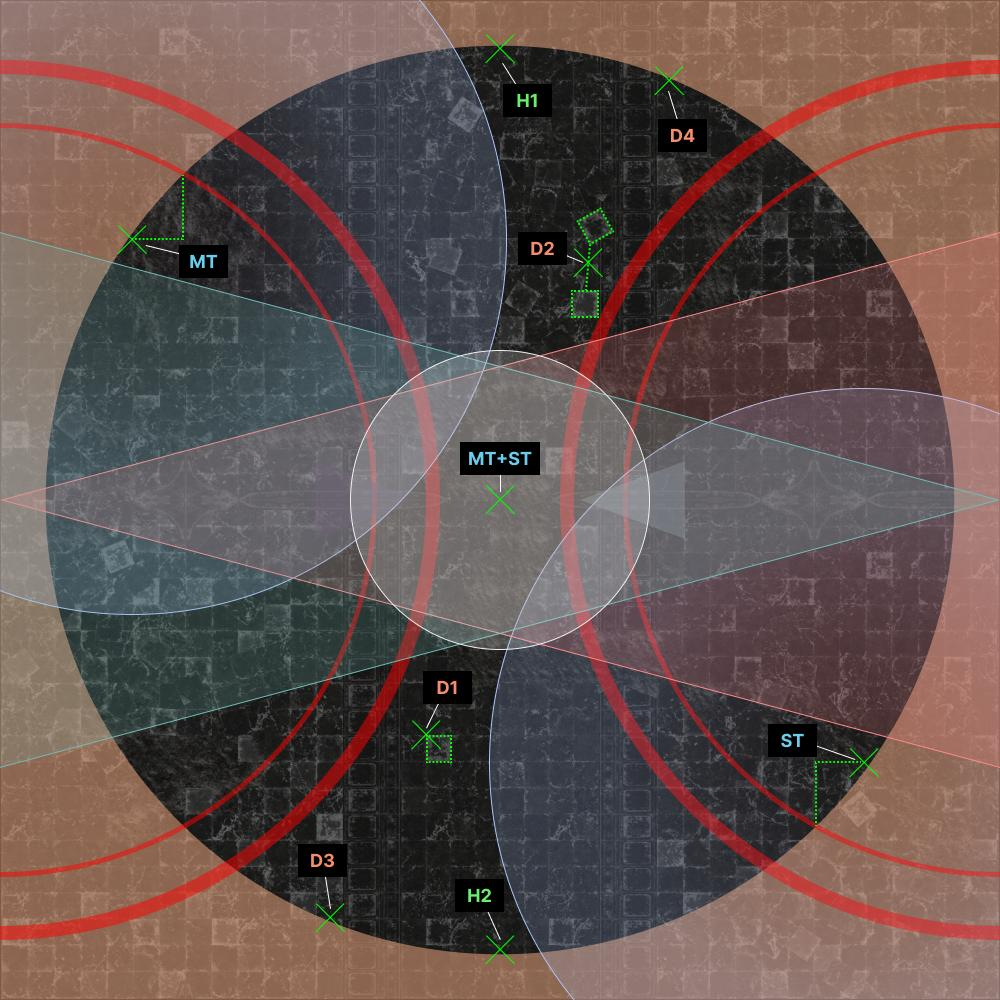
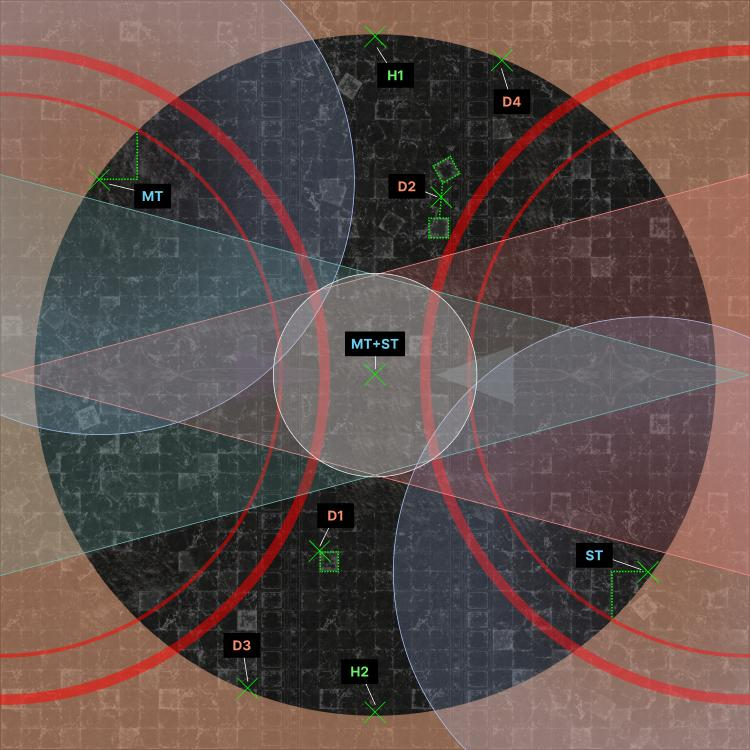
Make fixed WB2 links clickable, fix AoE sizes

diff --git a/_elemental/dsr/06_double_dragons.en.md b/_elemental/dsr/06_double_dragons.en.md
@@ -1182,7 +1182,7 @@ transition to the final phase *(Dragonking Thordan will not be targetable*
       <p>However, player positioning is precise, and when things go wrong, it's
       often difficult to diagnose what went wrong.</p>
       <p style="text-align:center">
-        <img src="{{site.baseurl}}/images/ultimates/dsr/06/fixed_wyrmsbreath2.jpg">
+        <img src="{{site.baseurl}}/images/ultimates/dsr_mana/06/fixed_wyrmsbreath2.jpg">
       </p>
       <ul>
         <li><b>MT:</b> NW if you get the single-target tankbuster (by Nidhogg).</li>

diff --git a/_mana/dsr/06_double_dragons.en.md b/_mana/dsr/06_double_dragons.en.md
@@ -763,7 +763,9 @@ or the shared tankbuster.
 The positions are *precise*- pay attention to the markings on the ground to
 help determine where to stand.
 
-![]({{site.baseurl}}/images/ultimates/dsr_mana/06/fixed_wyrmsbreath2.jpg)
+<a href="{{site.baseurl}}/images/ultimates/dsr_mana/06/fixed_wyrmsbreath2.jpg">
+  <img src="{{site.baseurl}}/images/ultimates/dsr_mana/06/fixed_wyrmsbreath2.jpg">
+</a>
 
 Also note that if D1 is tethered to Nidhogg, or D2 is tethered to Hraesvelgr,
 the tether will indicate that it is *not* stretched out.

diff --git a/_mana/dsr/differences.en.md b/_mana/dsr/differences.en.md
@@ -213,7 +213,12 @@ summary of the differences between Elemental and Mana.
   <tr>
     <td><em>Wyrmsbreath</em> #2</td>
     <td>5-1</td>
-    <td>Fixed WB2</td>
+    <td>
+      <p>Fixed WB2</p>
+      <a href="{{site.baseurl}}/images/ultimates/dsr_mana/06/fixed_wyrmsbreath2.jpg">
+        <img src="{{site.baseurl}}/images/ultimates/dsr_mana/06/fixed_wyrmsbreath2.jpg">
+      </a>
+    </td>
   </tr>
 </table>
 
